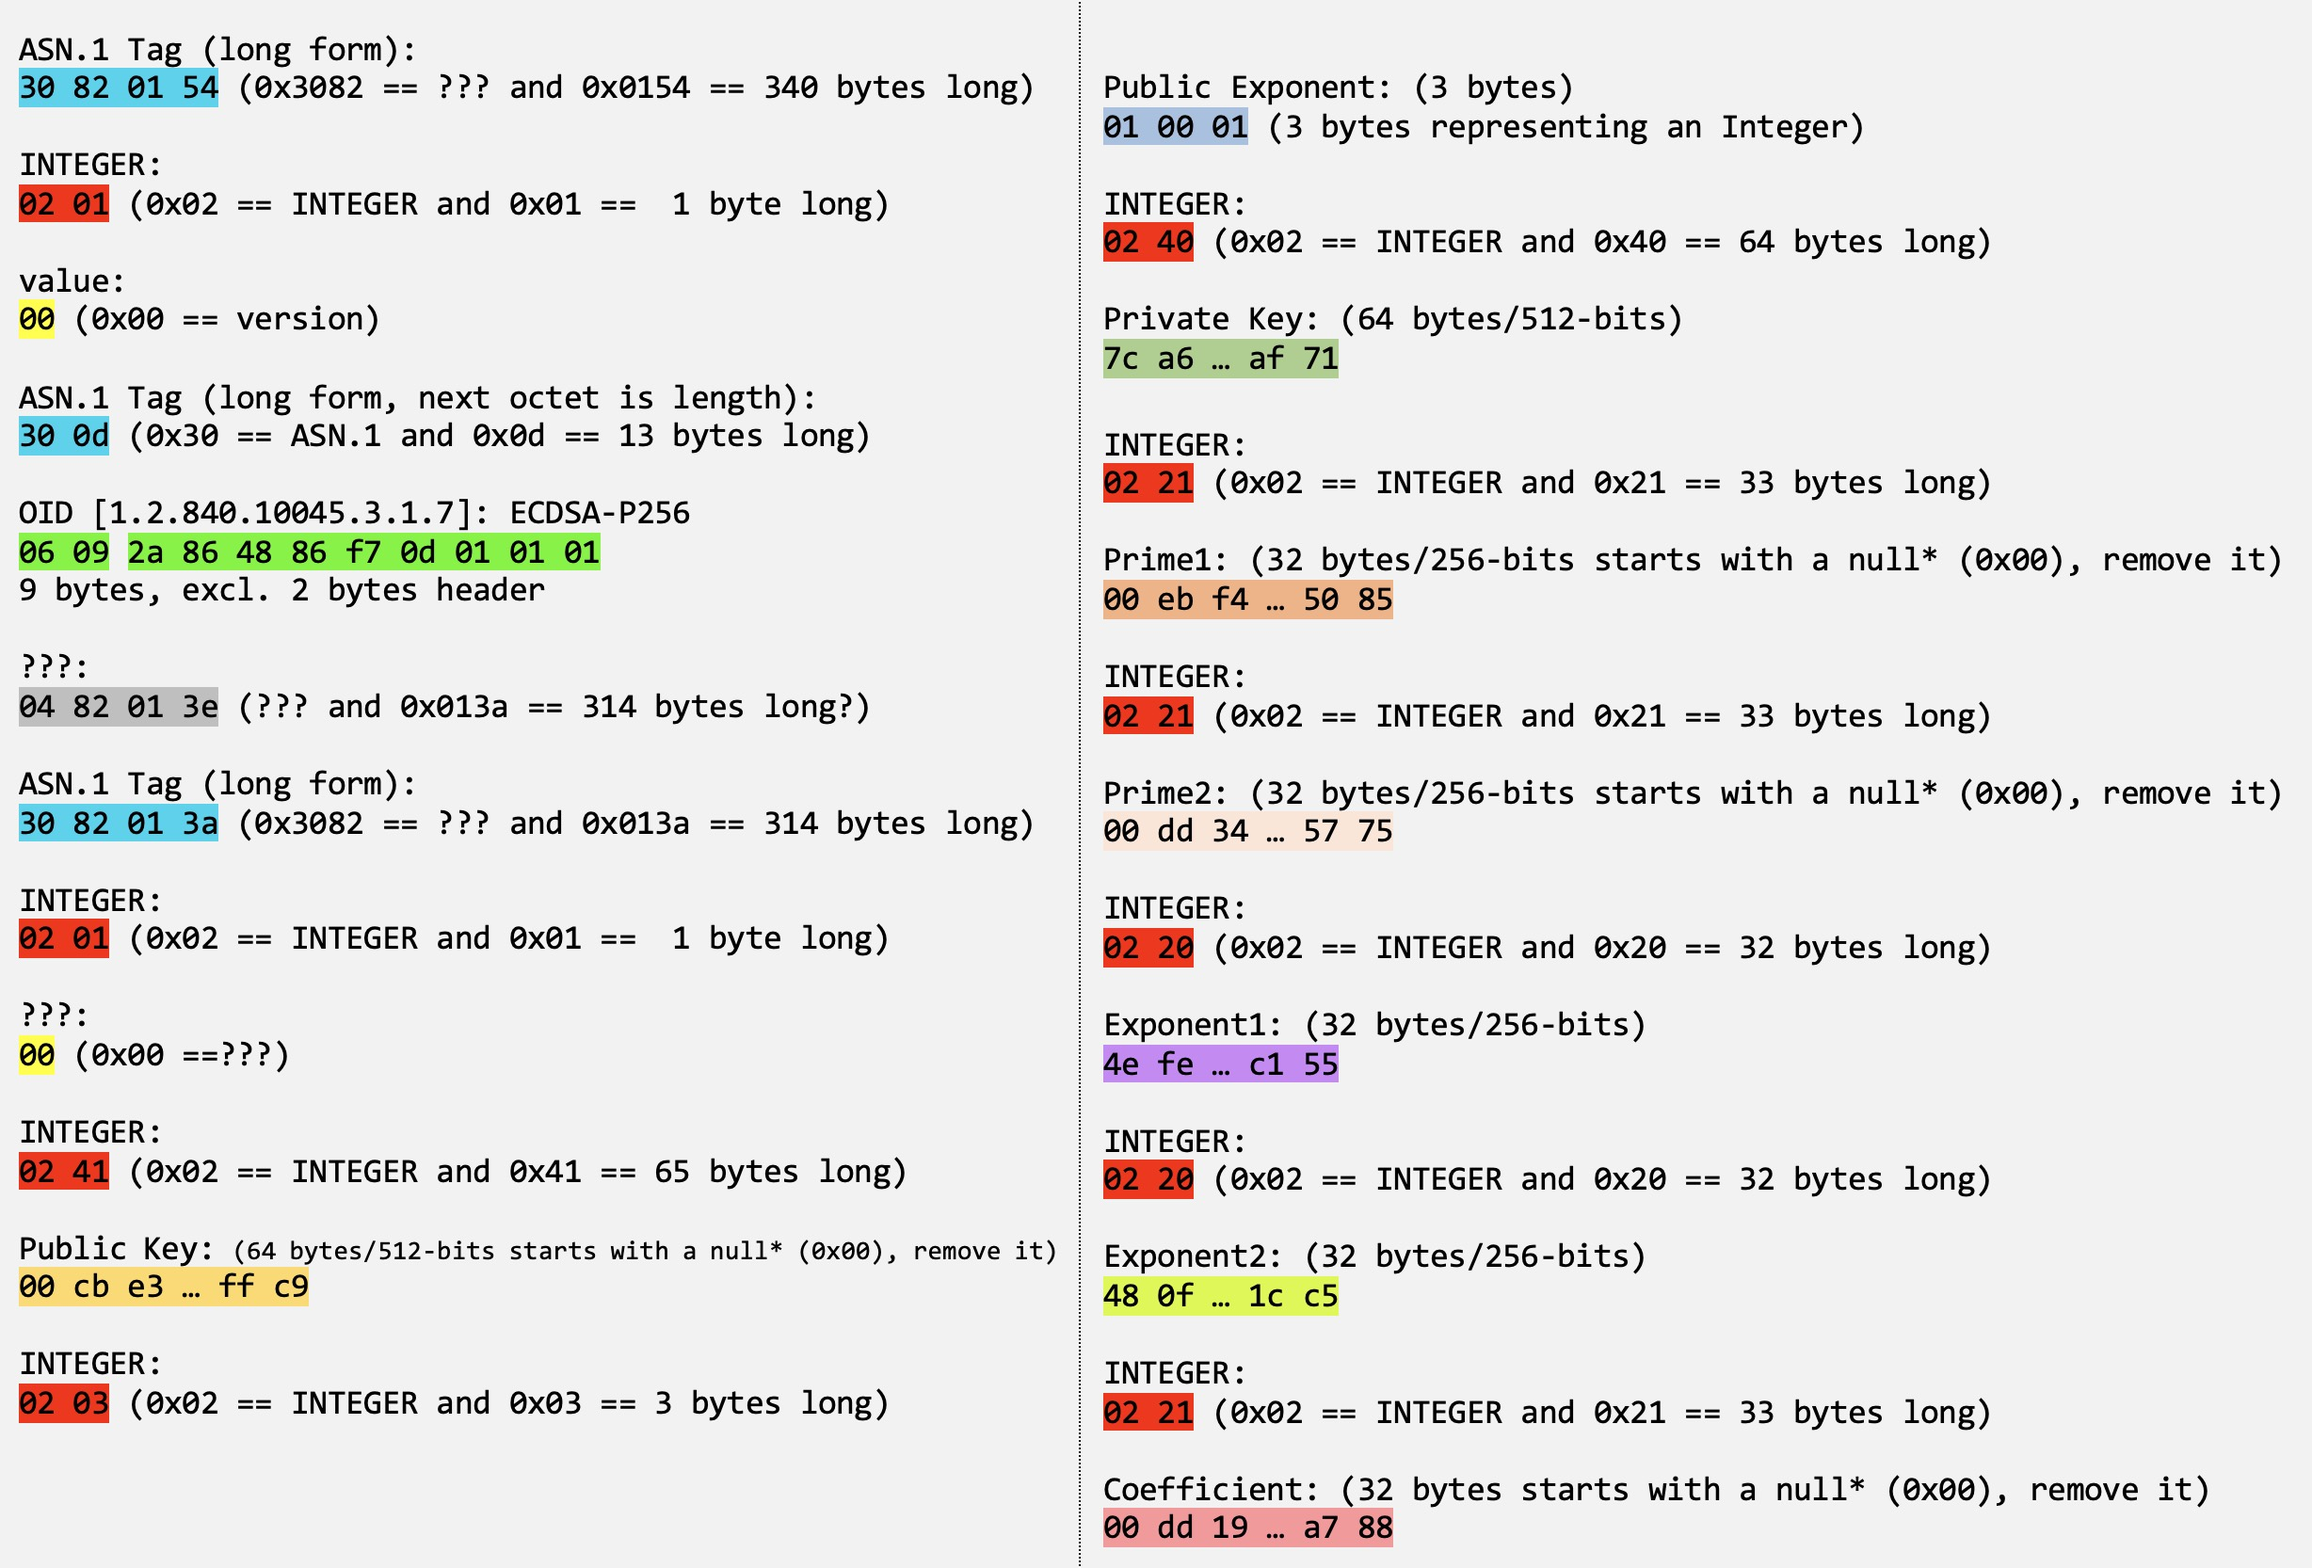
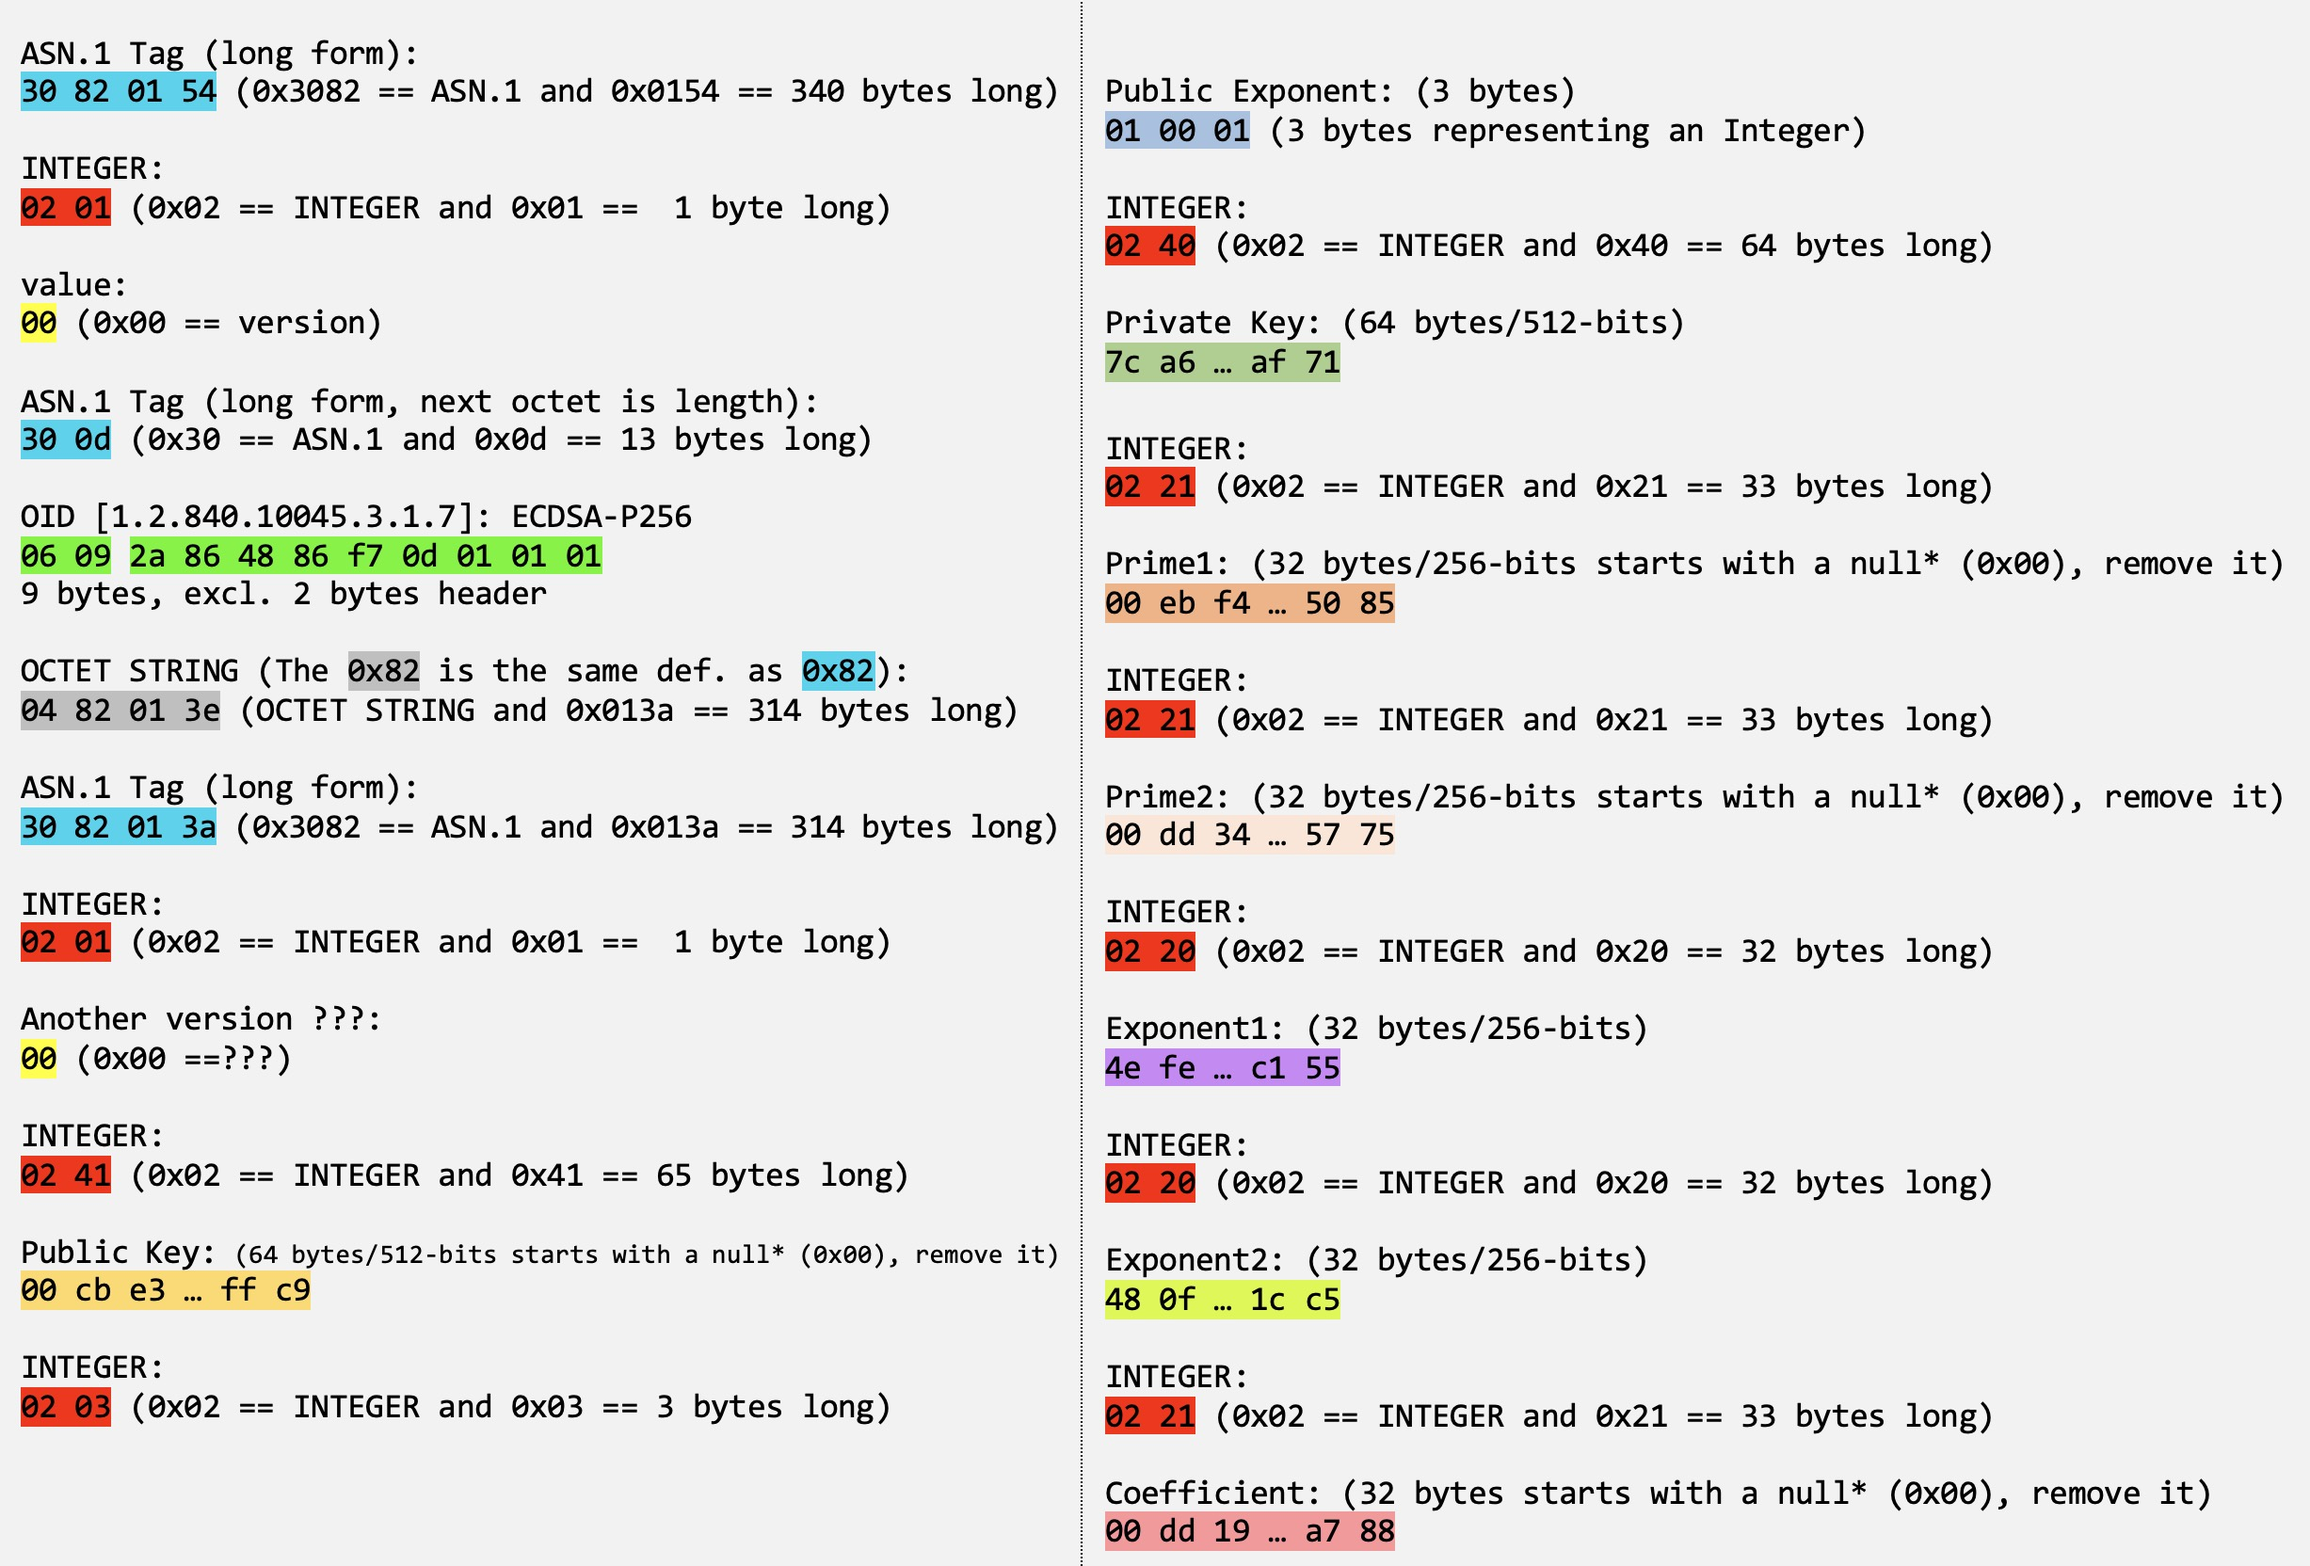
Initial commit

diff --git a/Private Key Anatomy/README.md b/Private Key Anatomy/README.md
@@ -101,11 +101,11 @@ The left side of the table is the output of the poreceding command. The righ sid
 
 Representation of an RSA 512-bit private key in hexadecimal.  
 ![Alt text](/images/rsa-priv-key-hex.jpg "RSA Private key in hex format")
-Definition of each fields in the private key.  
+Each fields in the private key.  
 ![Alt text](/images/rsa-priv-key-tags.jpg "RSA Private key tags")
 ASN.1 format.  
 ![Alt text](/images/asn-1-tag.jpg "X.690 ASN.1 tags")
->For more information, read the specs [here](https://en.wikipedia.org/wiki/X.690)
+>For more information on the X.690 specification, read it [here](https://en.wikipedia.org/wiki/X.690)
 ## OpenSSL ASN.1 Parser
 OpenSSL includes an ASN.1 parser. The numbers is the first column are in hexadecimal. They represent the byte offset of the binary private key file.
 ```shell
